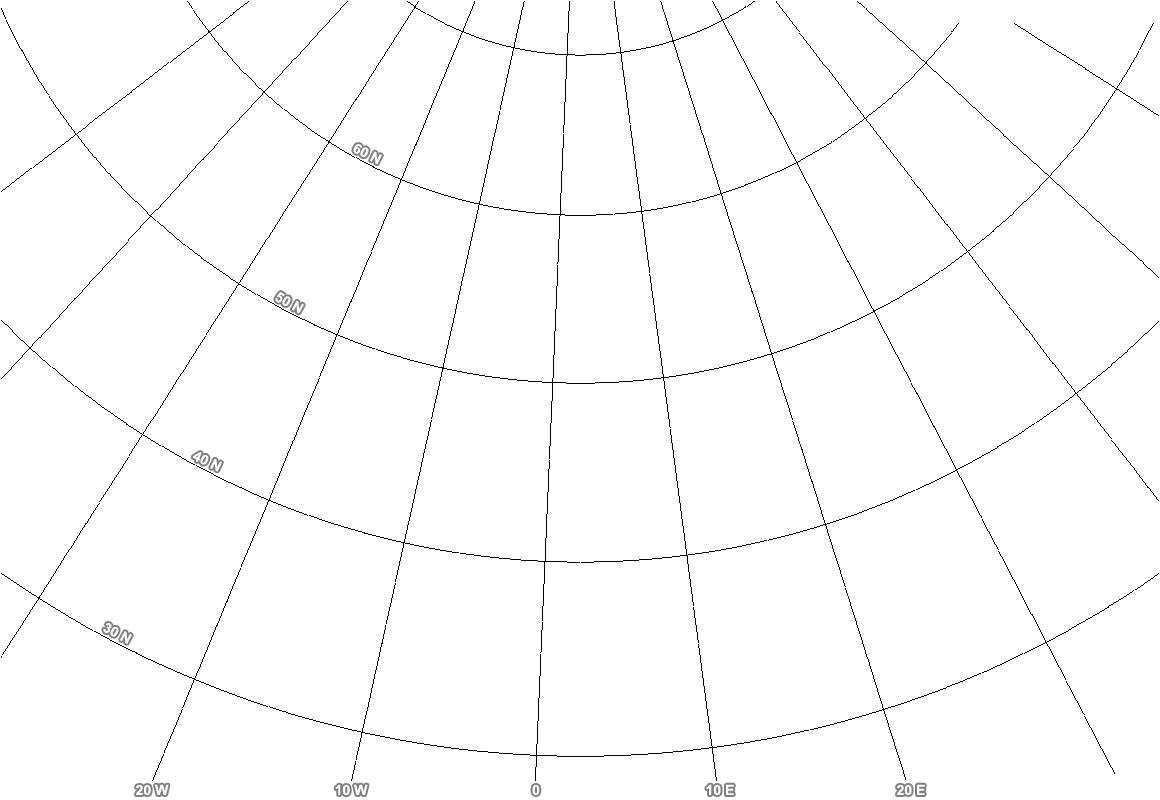
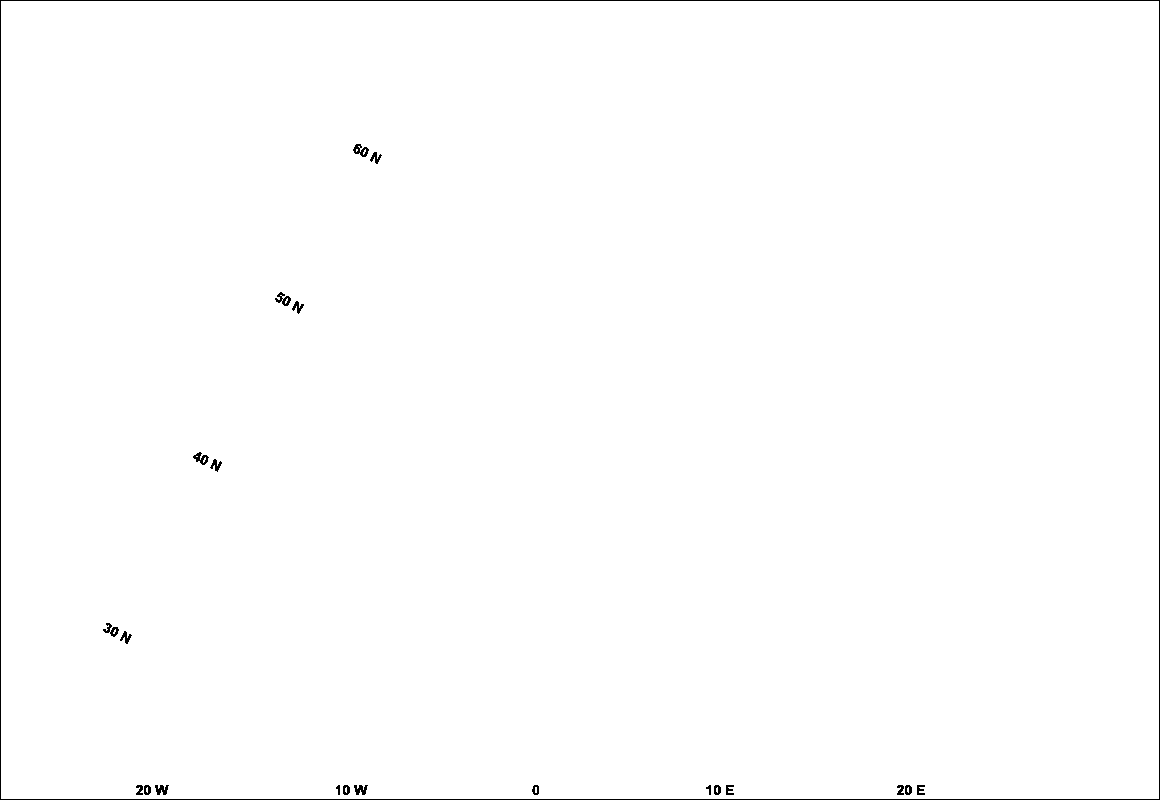
2.0.6 - updated mer and bg pictures, added wv061

diff --git a/plugin/ui.py b/plugin/ui.py
@@ -5,7 +5,7 @@ from . import _
 #  Czech Meteo Viewer - Plugin E2
 #
 #  by ims (c) 2011-2025
-VERSION = "ims (c) 2012-2025 v2.04"
+VERSION = "ims (c) 2012-2025 v2.06"
 #  This program is free software; you can redistribute it and/or
 #  modify it under the terms of the GNU General Public License
 #  as published by the Free Software Foundation; either version 2
@@ -46,11 +46,11 @@ TMPDIR = "/tmp/"
 SUBDIR = "czmeteo"
 
 # LIST OF USED NAMES IN MENU, OPTIONS AS INFO ("All" must be at last)
-INFO = [_("IR Central Europe"), _("VIS-IR Czech Republic"), _("IR BT Czech Republic"), _("24h-MF Czech Republic"), _("IR Europe"), _("Czech Storm"), _("Czech Radar")]
+INFO = [_("IR Central Europe"), _("VIS-IR Czech Republic"), _("WV Czech Republic"), _("IR BT Czech Republic"), _("24h-MF Czech Republic"), _("IR Europe"), _("Czech Storm"), _("Czech Radar")]
 INFO += [_("All")]
 
 # LIST OF USED INDEX NAMES AS TYPES: ("all" must be at last")
-TYPE = ["ir", "vis", "bt", "24m", "eu", "storm", "csr"]
+TYPE = ["ir", "vis", "wv", "bt", "24m", "eu", "storm", "csr"]
 TYPE += ["all"]
 
 DESCR = [
@@ -62,6 +62,10 @@ _("VIS-IR - 'Traditional' RGB combination, approaching human eye perception.\n\n
   - WHITE to BLUE = high cloudiness (cold)\n\
   - GREEN = vegetation-covered terrain\n\
   - DARK BLUE = water"),
+_("WV - spectral band of water vapor absorption (channel WV 6.2)\n\n\
+  - DARK shades correspond to dry and cloud-free upper troposphere\n\
+  - LIGHTER the shade, the more water vapor is present in that layer\n\
+  This spectral channel also captures the highest cloud tops - cirrus and cumulonimbus clouds (shown in white), but not medium or low cloudiness."),
 _("IR-BT - Traditional display (color scale is embedded in individual images)\n\n\
   - DARK = warm areas\n\
   - LIGHT = cold areas\n\
@@ -88,10 +92,10 @@ if getDesktop(0).size().width() >= 1280:
 	HD = True
 
 # position of BACKGROUND and MER must be equal as position of SUBDIR and TYPE. For unused item use e.png
-BACKGROUND = ["bg.png", "2bg.png", "2bg.png", "2bg.png", "bgeu.png", "e.png", "radar.png"]
+BACKGROUND = ["bgce.png", "bgcz.png", "bgcz.png", "bgcz.png", "bgcz.png", "bgeu.png", "e.png", "radar.png"]
 for i in range(0, len(TYPE) + 1):
 	BACKGROUND.append("e.png")
-MER = ["merce.png", "mercz.png", "mercz.png", "mercz.png", "mereu.png", "estorm.png"]
+MER = ["merce.png", "mercz.png", "mercz.png", "mercz.png", "mercz.png", "mereu.png", "estorm.png"]
 for i in range(0, len(TYPE) + 1):
 	MER.append("e.png")
 EMPTYFRAME = "e.jpg"
@@ -111,7 +115,7 @@ for i in range(0, len(INFO)):
 config.plugins.czechmeteo.type = ConfigSelection(default="5", choices=choicelist)
 
 # CHOICES FOR AFTER "ALL" (WITHOUT "ALL"):
-config.plugins.czechmeteo.typeafterall = ConfigSelection(default="5", choices=config.plugins.czechmeteo.type.choices[:-1])
+config.plugins.czechmeteo.typeafterall = ConfigSelection(default="6", choices=config.plugins.czechmeteo.type.choices[:-1])
 config.plugins.czechmeteo.display = ConfigSelection(default="3", choices=[("0", _("none")), ("1", _("info")), ("2", _("progress bar")), ("3", _("info and progress bar"))])
 config.plugins.czechmeteo.localtime = ConfigYesNo(default=False)
 config.plugins.czechmeteo.delete = ConfigSelection(default="4", choices=[("0", _("no")), ("1", _("current type")), ("2", _("all types")),
@@ -752,7 +756,7 @@ class czechMeteo(Screen, HelpableScreen):
 			else:
 				self.borderLoad.startDecode(PPATH + BACKGROUND[self.typ])
 				if cfg.mer.value:
-					if TYPE[self.typ] in ("eu", "ir", "vis", "bt", "24m", "storm") and fileExists(E2PATH + MER[self.typ]):
+					if TYPE[self.typ] in ("eu", "ir", "vis", "wv", "bt", "24m", "storm") and fileExists(E2PATH + MER[self.typ]):
 						self.merLoad.startDecode(E2PATH + MER[self.typ])
 					else:
 						self.merLoad.startDecode(PPATH + MER[self.typ])
@@ -935,7 +939,7 @@ class czechMeteo(Screen, HelpableScreen):
 			if not self.refreshLast:  # dont read if refresh
 				self.downloadOnce(typ)
 
-		if typ in ("eu", "ir", "vis", "bt", "24m", "csr", "all"):
+		if typ in ("eu", "ir", "vis", "wv", "bt", "24m", "csr", "all"):
 			if not self.stopRead:
 				self.downloadMain(typ)
 		if typ in ("storm", "all"):
@@ -1074,6 +1078,11 @@ class czechMeteo(Screen, HelpableScreen):
 			if typ == "vis" or typ == "all":
 				url = "%s/img-%s-vis-ir/%s.vis-ir.%s.%s.0.jpg" % (page, cz, cz, frDate, frTime)
 				path = "%s%s%s.jpg" % (self.getDir(TYPE.index("vis")), frDate, frTime)
+				if not self.downloadFrame(url, path):
+					break
+			if typ == "wv" or typ == "all":
+				url = "%s/img-%s-wv062/%s.wv062.%s.%s.0.jpg" % (page, cz, cz, frDate, frTime)
+				path = "%s%s%s.jpg" % (self.getDir(TYPE.index("wv")), frDate, frTime)
 				if not self.downloadFrame(url, path):
 					break
 

diff --git a/setup.py b/setup.py
@@ -3,7 +3,7 @@ import setup_translate
 
 pkg = 'Extensions.CzechMeteo'
 setup (name = 'enigma2-plugin-extensions-czechmeteo',
-	version = '2.0.4',
+	version = '2.0.6',
 	description = 'czech meteo information viewer',
 	packages = [pkg],
 	package_dir = {pkg: 'plugin'},
